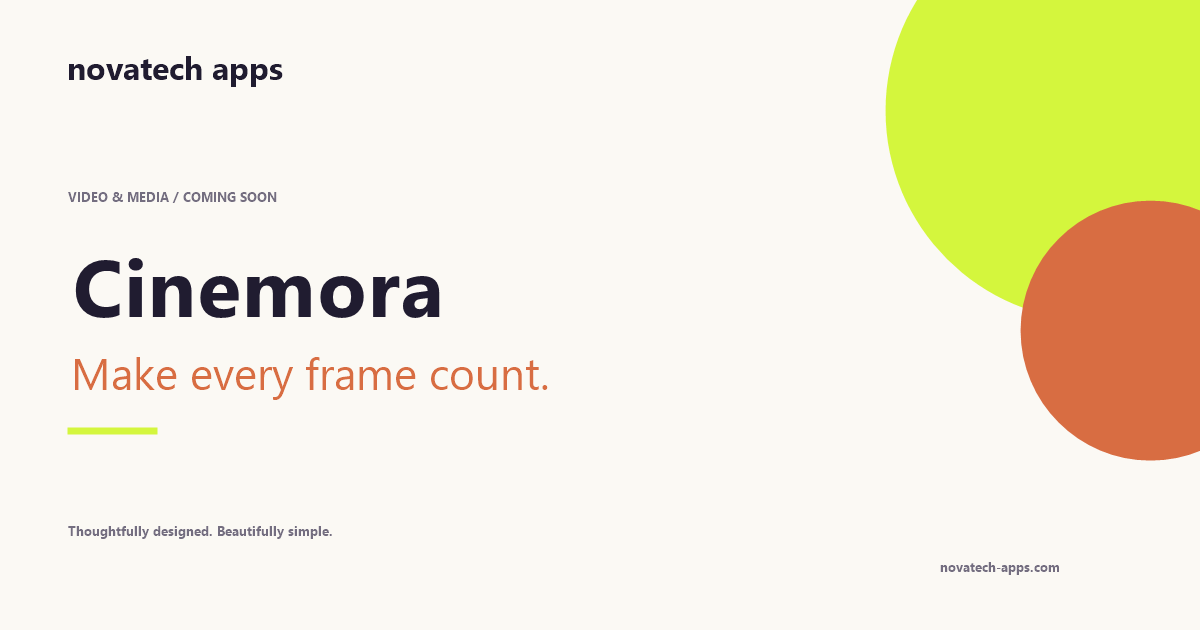
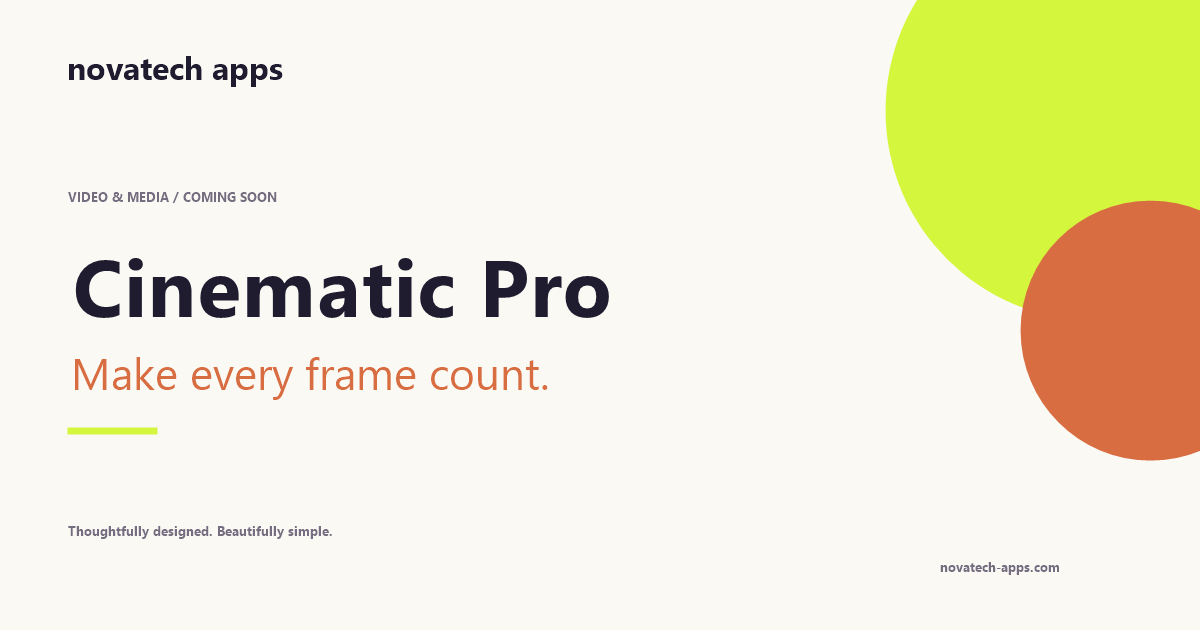
Rename Cinemora to Cinematic Pro and publish video-editor privacy policy

Changed region(s): [[0.2467, 0.3921, 0.5242, 0.5127]]

diff --git a/src/content/cinematic-pro-privacy.md b/src/content/cinematic-pro-privacy.md
@@ -1,0 +1,93 @@
+# Cinematic Pro Privacy Policy
+
+## About this policy
+
+Cinematic Pro is a video-editing app provided by NovaTech Apps ("we", "us", or "our"). This Privacy Policy explains how information is handled when you use the app, work with media, export a project, or contact us.
+
+Privacy contact: developer.novatechapps@gmail.com. Please include "Cinematic Pro privacy" in your subject line so we can identify your request. This policy covers the mobile app. Our [website privacy policy](/privacy-policy/) covers the NovaTech Apps website separately.
+
+## Media, projects and information you provide
+
+- **Media you select:** Video clips, photos, audio tracks and related information, such as file names, formats, sizes, duration and dimensions, are used to open, preview, edit and export the content you choose. Media access is tied to the editing task you request.
+- **Editing information:** Project settings, editing choices, preferences and temporary working files may be stored to support the editing workflow and remember your choices.
+- **Recordings:** If you use an available capture or voice-recording feature, the camera or microphone input is used for that feature after you grant the required permission.
+- **Support messages:** When you contact us, we receive your email address, message and any information or attachments you choose to send. Please do not send sensitive media, passwords or other people's information unless necessary to resolve your request and you have authority to share it.
+
+Access to a media file is different from uploading it. A device permission alone does not mean your entire media library is transmitted to us. When you choose to export or share a file, the destination you select determines who receives that copy.
+
+## Android permissions
+
+Cinematic Pro declares the following Android permissions. Access available to the app depends on your Android version, your permission choices and the feature you use. Android may provide a system file picker, selected-item access or a media permission.
+
+- **Photos, videos and audio:** `READ_MEDIA_IMAGES`, `READ_MEDIA_VIDEO` and `READ_MEDIA_AUDIO` allow access to the corresponding media types for selecting, previewing and editing your content, subject to Android's access controls.
+- **Storage on older Android versions:** `READ_EXTERNAL_STORAGE` is declared for Android 12/12L and earlier, through API level 32. It supports reading media on those versions. This declaration does not grant unrestricted write access to every file on your device.
+- **Camera:** `CAMERA` supports photo or video capture when you choose an available capture feature and grant access. Camera hardware is declared optional; a camera is not required for installation.
+- **Microphone:** `RECORD_AUDIO` supports recording audio or voice input for an available recording feature after you grant access.
+- **Notifications:** `POST_NOTIFICATIONS` supports notifications such as processing or export progress, subject to your notification choices and Android requirements.
+- **Foreground media processing:** `FOREGROUND_SERVICE` and `FOREGROUND_SERVICE_MEDIA_PROCESSING` support an ongoing media-processing task, such as preparing or exporting a video, with the foreground-service behaviour required by Android.
+- **Vibration:** `VIBRATE` supports haptic feedback for interface actions or alerts. It does not provide access to your photos, recordings or personal files.
+- **Internet:** `INTERNET` permits network connections for online features and any included third-party services described below. Network access does not itself grant access to your media.
+
+You can review and change camera, microphone, media and notification access in Android Settings where Android offers those controls. Some declarations, such as internet, vibration and foreground-service permissions, do not have a separate runtime permission prompt. Denying or limiting access may make the related feature unavailable. You can still manage your files through Android and the storage service where they are saved.
+
+A declared permission identifies an access capability; it does not, on its own, establish that files are uploaded or that a particular advertising or analytics service is installed.
+
+## How information is used
+
+Information is used to provide the editing, preview, saving and sharing actions you request; maintain project preferences; handle support; address compatibility and reliability problems; and protect the app against misuse. Advertising, usage measurement or crash-reporting processing, where included, is described separately below.
+
+Sensitive permissions must be used for the feature for which access was granted. Optional processing that requires consent is subject to that choice and applicable law.
+
+## Third-party services, advertising and diagnostics
+
+The following describes processing that applies **if the version you use includes the relevant service**. It is not a statement that every listed service is enabled in every version.
+
+- **Google AdMob, if included:** Google's advertising services may process advertising or app identifiers, IP address and approximate location derived from it, device and app information, ad interactions and diagnostic information to deliver, measure, secure and, where permitted, personalise ads. Consent and regional privacy choices apply where required. You can also manage your advertising identifier through your device's Google or privacy settings.
+- **Firebase Analytics or Crashlytics, if included:** The enabled service may process usage events, app-instance identifiers, device and app details, performance information or crash logs to understand app operation and diagnose problems. The applicable data depends on the enabled product and configuration.
+- **Android, app stores and services you choose:** The operating system, app store, backup provider, storage service or sharing destination may independently process information under its own settings and policies. They do not become part of NovaTech simply because you use them with the app.
+
+Relevant provider information: [Google Privacy Policy](https://policies.google.com/privacy), [Google advertising data disclosures](https://developers.google.com/admob/android/privacy/play-data-disclosure), [Firebase privacy information](https://firebase.google.com/support/privacy) and [Google advertising controls](https://adssettings.google.com/).
+
+These providers' policies describe their own processing, retention and controls. This policy does not grant advertising or analytics providers permission to use your selected media for unrelated purposes.
+
+## Sharing and exports
+
+When you choose a sharing destination or save to a cloud-backed folder, the selected service or recipient receives the file and any information embedded in it. Review the destination and the content before sharing; recipients control their own copies.
+
+Information may also be handled by service providers supporting the features described in this policy, where necessary to operate those features; disclosed where required by law or to protect users and prevent abuse; or transferred as part of a business reorganisation subject to applicable privacy obligations and required notice. Disclosure should be limited to information necessary for the purpose.
+
+We do not sell your personal media. You remain responsible for having permission to edit or share content that includes other people.
+
+## Retention and deletion
+
+Local project files, preferences and temporary editing data remain for as long as needed for your work or until removed by you, app cleanup, clearing app storage or uninstalling the app. Clearing app storage can reset preferences and remove unfinished work. Exported media may remain in shared storage, your gallery, a cloud folder or another app after Cinematic Pro is removed; delete those files separately where they are stored.
+
+Android or a storage provider may keep backup or transferred copies according to your device and provider settings. Clearing local app data does not necessarily remove backups, exported files or recipients' copies.
+
+Support correspondence is kept while needed to respond, resolve the issue, maintain relevant support records or meet legal obligations, and is deleted or anonymised when no longer needed for those purposes. Data independently held by third-party providers follows their retention policies and controls.
+
+To request deletion of personal information held by NovaTech Apps, email developer.novatechapps@gmail.com. Identify the app and the information involved without sending unnecessary sensitive material. We may need proportionate information to verify that you are entitled to make the request. We cannot remotely erase device-only files or copies controlled by another recipient or provider.
+
+## Your choices and privacy rights
+
+You can choose which files to open, control Android permissions, stop using an optional feature, manage device advertising settings and control where you export or share content. Where a consent choice is offered, you can change or withdraw it through the available consent controls; withdrawal does not affect processing lawfully completed before that change.
+
+Depending on where you live, you may have rights to access, correct, delete or receive a copy of your personal information; restrict or object to processing; withdraw consent; or opt out of certain advertising-related uses. Contact developer.novatechapps@gmail.com to exercise applicable rights or ask about the information we hold. You may also raise a concern with your local data protection authority.
+
+## Children's privacy
+
+Cinematic Pro is a general-purpose creative tool and is not directed to children under 13, or a higher minimum age where local law requires it. We do not knowingly collect personal information from children in violation of applicable law. If you believe a child has provided personal information to us, contact developer.novatechapps@gmail.com so we can review the concern and take appropriate action.
+
+Parents and guardians should supervise children's device use and the sharing of images, videos or recordings that identify a child.
+
+## Security and international processing
+
+Reasonable technical and organisational safeguards are used to protect information handled for the purposes described in this policy. No storage system or transmission method is completely secure. Keep your device protected and take care before sharing sensitive media or allowing other people access to an unlocked device.
+
+Your email provider and any third-party services involved may process information outside your country. Applicable privacy obligations and safeguards apply to transfers made by us; independently operated providers describe their international processing in their own policies.
+
+## Changes and contact
+
+We may update this policy as the app or its data practices change. The effective date identifies the current version. Material changes will be communicated through the app or other appropriate notice where required by law.
+
+For privacy questions, requests or concerns, contact **NovaTech Apps** at **developer.novatechapps@gmail.com** and identify **Cinematic Pro**.

diff --git a/README.md b/README.md
@@ -24,7 +24,7 @@ src/content/          # Original supplied Aura privacy, terms and feature text
 src/redirects.mjs     # Legacy Harmonify route mapping
 src/icons.mjs         # Original inline SVG icon system
 src/seo.mjs           # Sitemap, robots, structured data and optional Google verification
-scripts/build.mjs     # Generates all 21 HTML routes and sitemap
+scripts/build.mjs     # Generates all 24 HTML routes and sitemap
 scripts/serve.mjs     # Local preview with route redirects and real 404 responses
 scripts/check.mjs     # Generated-site validation
 scripts/check-seo.mjs # Sitemap/canonical/indexing and contact email consistency
@@ -46,7 +46,13 @@ dist/                 # Generated deployable website (build output)
 
 ## Routes
 
-`/`, `/legal/`, `/contact/`, `/privacy-policy/`, `/terms/`, `/404.html`, `/app-ads.txt`. Each of `/aura-music-player/`, `/learning-app/`, `/cinemora/`, and `/chromagrade/` has its own landing page, `/privacy-policy/`, and `/terms/`. App-nested `app-ads.txt` requests redirect to the root file on configured hosts. The three former `/harmonify/` pages redirect to their Aura equivalents; GitHub Pages uses immediate HTML redirects with canonical targets and accessible fallback links.
+`/`, `/legal/`, `/contact/`, `/privacy-policy/`, `/terms/`, `/404.html`, `/app-ads.txt`. Each of `/aura-music-player/`, `/learning-app/`, `/cinematic-pro/`, and `/chromagrade/` has its own landing page, `/privacy-policy/`, and `/terms/`. App-nested `app-ads.txt` requests redirect to the root file on configured hosts. The former `/harmonify/` and `/cinemora/` pages redirect to their Aura and Cinematic Pro equivalents; GitHub Pages uses immediate HTML redirects with canonical targets and accessible fallback links.
+
+## Cinematic Pro privacy policy
+
+Cinematic Pro replaces the Cinemora name and canonical route. Its general video-editor privacy policy is maintained in `src/content/cinematic-pro-privacy.md` and rendered by `src/cinematic-privacy.mjs`. It is published with an effective date of October 18, 2026, without a draft notice or `noindex`, and is included in the sitemap. The app's terms remain a pre-launch draft. Old Cinemora URLs and asset filenames remain compatible.
+
+The owner requested general policy wording and supplied an Android manifest fragment, recorded in `src/content/cinematic-pro-permissions.txt`. The policy names the declared media, camera, microphone, notification, vibration, internet and foreground media-processing permissions, the API 32 cap for legacy storage, and optional camera hardware. This does not establish actual runtime data flows or dependency-added permissions. Google AdMob and Firebase processing remain expressly conditional on the service being included in the installed version. No particular SDK integration, account system, cloud processing feature or offline-only architecture has been verified. Match these general disclosures to the actual released build and Play Console Data safety entries before store submission; publication is not a compliance certification.
 
 ## Learning App
 
@@ -78,7 +84,7 @@ Update `src/data.mjs` with verified `playUrl`, `rating`, `version`, publisher ID
 
 The existing publisher ID `pub-5447768257052428` is retained in `/app-ads.txt` with the Google seller certification value `f08c47fec0942fa0`. Confirm it against your AdMob account before monetization. List the root developer website in your store listings and validate crawling in AdMob. Private preview URLs cannot serve as public Play policy or advertising-verification endpoints.
 
-App privacy policies and terms are **pre-launch drafts**, visibly labeled and marked `noindex`. Before submission, audit each released app’s permission manifest, SDK versions/configurations, collection and sharing behavior, audience, regional consent, account/deletion requirements, retention and providers. Replace conditional text with accurate disclosures, finalize the legal entity, address, applicable law and effective date, and remove draft notices/noindex in `scripts/build.mjs` after approval. A website alone cannot establish legal compliance or Play Console verification. Website privacy text also identifies host logging and support retention details that the operator must confirm.
+Except for Cinematic Pro's published general privacy policy, app privacy policies and terms are **pre-launch drafts**, visibly labeled and marked `noindex`. Before submission, audit each released app’s permission manifest, SDK versions/configurations, collection and sharing behavior, audience, regional consent, account/deletion requirements, retention and providers. Replace conditional text with accurate disclosures, finalize the legal entity, address, applicable law and effective date, and remove remaining draft notices/noindex in `scripts/build.mjs` after approval. A website alone cannot establish legal compliance or Play Console verification. Website privacy text also identifies host logging and support retention details that the operator must confirm.
 
 References used to prepare the policy structure: [Google Play User Data](https://support.google.com/googleplay/android-developer/answer/10144311), [Data safety](https://support.google.com/googleplay/android-developer/answer/10787469), [AdMob data disclosures](https://developers.google.com/admob/android/privacy/play-data-disclosure), [Firebase privacy](https://firebase.google.com/support/privacy), and [app-ads.txt setup](https://support.google.com/admob/answer/9363762).
 
@@ -90,7 +96,7 @@ DM Sans and Manrope are self-hosted WOFF2 fonts with their SIL Open Font License
 
 ## Repository migration
 
-The custom domain in public/CNAME and the existing AdMob publisher ID were carried over from the previous repository. The seller certification authority value uses the correct f08c47fec0942fa0 syntax. Confirm this publisher ID in AdMob before monetization. Google Play and app policy disclosures remain pre-launch drafts. The source in this branch builds into dist; deploy dist using the hosting instructions above.
+The custom domain in public/CNAME and the existing AdMob publisher ID were carried over from the previous repository. The seller certification authority value uses the correct f08c47fec0942fa0 syntax. Confirm this publisher ID in AdMob before monetization. App publication does not establish Google Play verification; policy status is described above. The source in this branch builds into dist; deploy dist using the hosting instructions above.
 
 ## GitHub Pages deployment
 
